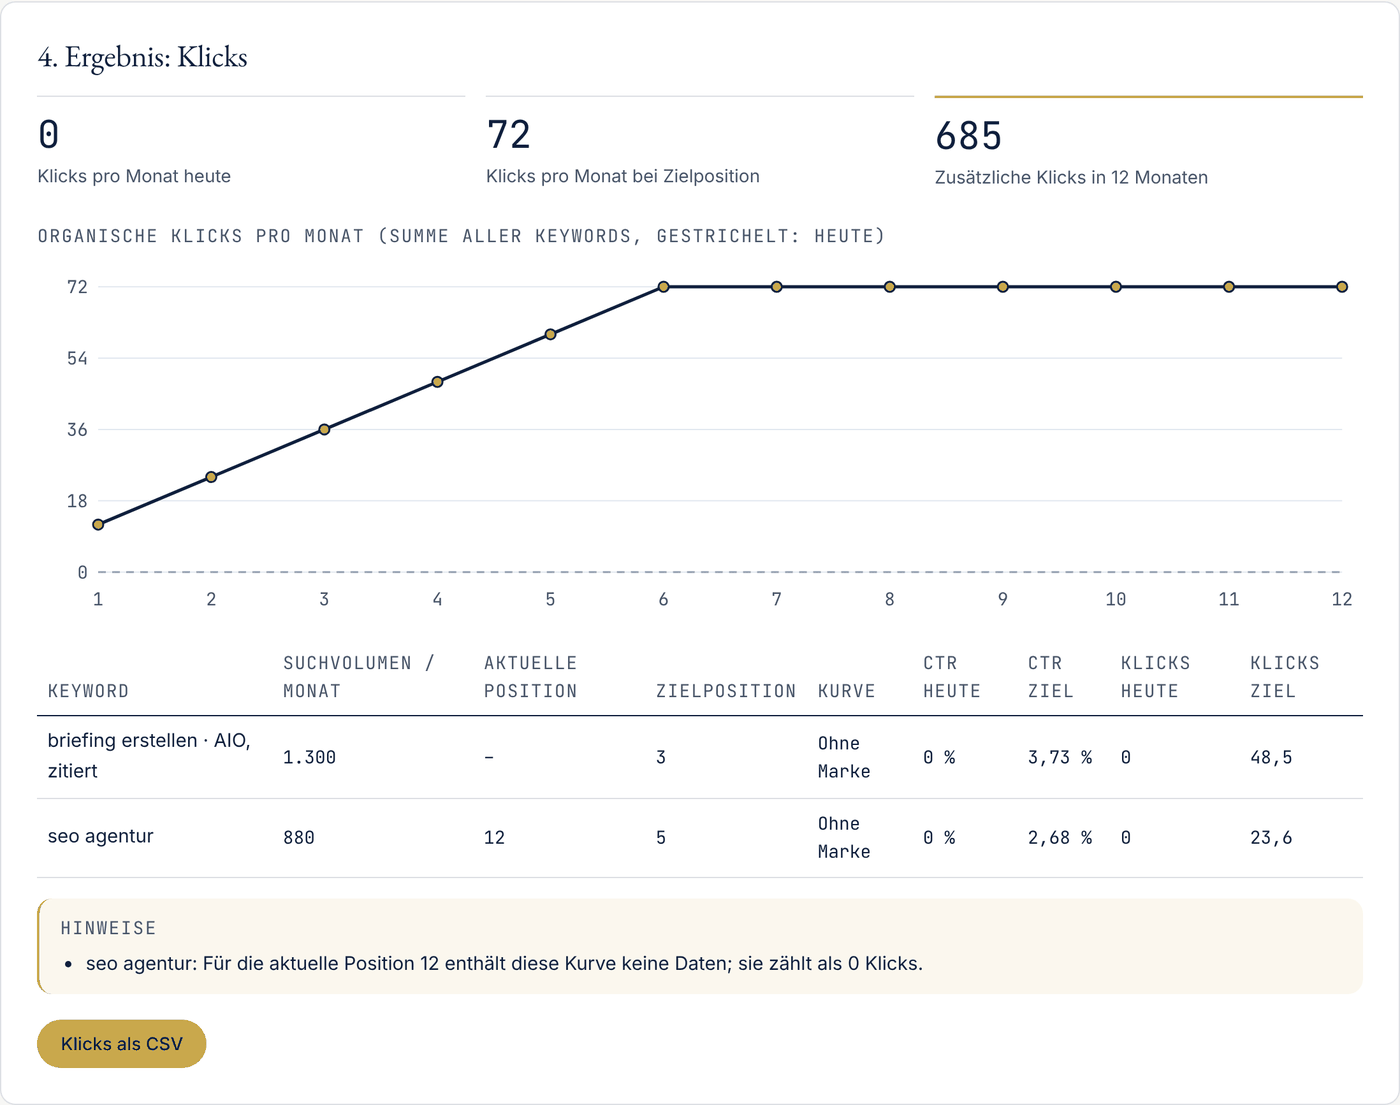
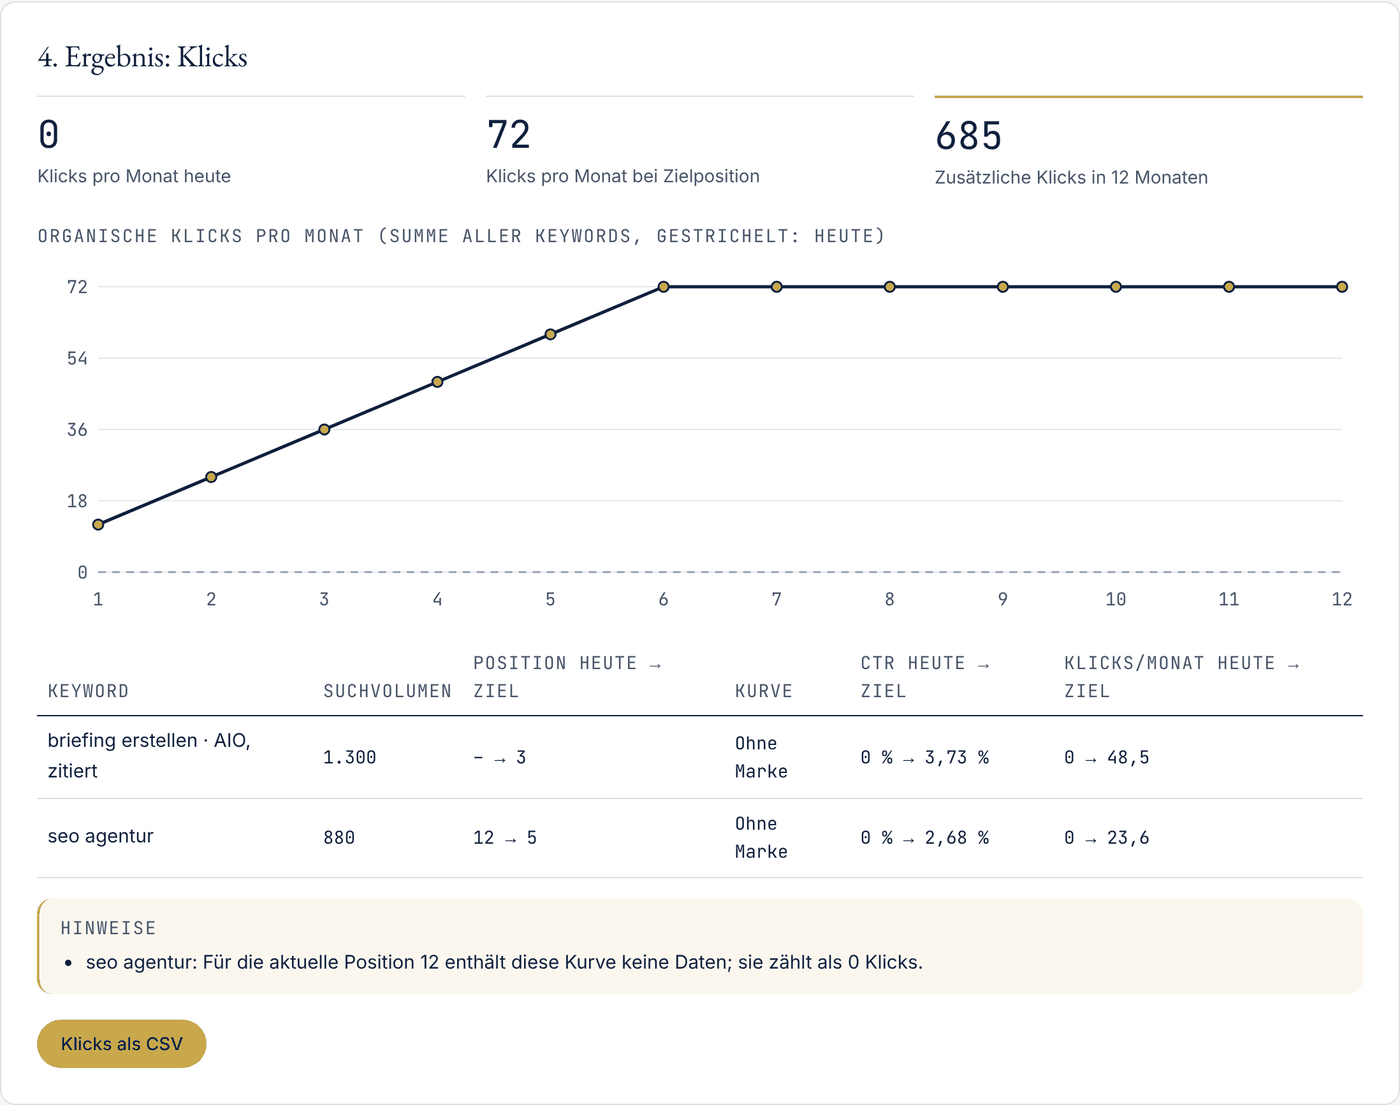
1.3.1: AI Overview not cited ×0.48 (Seer, without the 47 % account; range ×0.28 to ×0.48), compact result table, full-width curve select, stacked keyword rows below 1100 px

diff --git a/dist/ui.js b/dist/ui.js
@@ -46,6 +46,7 @@ function strings(lang, currency) {
             result: '4. Ergebnis: Klicks',
             today: 'Klicks pro Monat heute', target: 'Klicks pro Monat bei Zielposition', extra: (n) => `Zusätzliche Klicks in ${n} Monaten`,
             chartClicks: 'Organische Klicks pro Monat (Summe aller Keywords, gestrichelt: heute)', month: 'Monat',
+            colVolumeShort: 'Suchvolumen', colPos: 'Position heute → Ziel', colCtr: 'CTR heute → Ziel', colClicks: 'Klicks/Monat heute → Ziel',
             colCurve: 'Kurve', colCtrNow: 'CTR heute', colCtrTarget: 'CTR Ziel', colClicksNow: 'Klicks heute', colClicksTarget: 'Klicks Ziel',
             exportCsv: 'Klicks als CSV',
             funnelResult: '5. Ergebnis: Business-Funnel',
@@ -107,6 +108,7 @@ function strings(lang, currency) {
         result: '4. Result: clicks',
         today: 'Clicks per month today', target: 'Clicks per month at target position', extra: (n) => `Additional clicks over ${n} months`,
         chartClicks: 'Organic clicks per month (all keywords, dashed: today)', month: 'Month',
+        colVolumeShort: 'Search volume', colPos: 'Position today → target', colCtr: 'CTR today → target', colClicks: 'Clicks/month today → target',
         colCurve: 'Curve', colCtrNow: 'CTR today', colCtrTarget: 'CTR target', colClicksNow: 'Clicks today', colClicksTarget: 'Clicks target',
         exportCsv: 'Clicks as CSV',
         funnelResult: '5. Result: business funnel',
@@ -305,7 +307,9 @@ export function mount(root, options = {}) {
     const ramp = numInput('6', '1', '1', '36');
     const horizon = numInput('12', '1', '1', '36');
     const userFactor = numInput('100', '0', 'any', '500');
-    grid.append(field(t.curve, curveSel), field(t.ramp, ramp), field(t.horizon, horizon), field(t.userFactor, userFactor, t.userFactorHelp));
+    const curveField = field(t.curve, curveSel);
+    curveField.classList.add('fc-field--wide');
+    grid.append(curveField, field(t.ramp, ramp), field(t.horizon, horizon), field(t.userFactor, userFactor, t.userFactorHelp));
     setup.appendChild(grid);
     const presetNote = el('p', 'fc-note');
     setup.appendChild(presetNote);
@@ -505,10 +509,10 @@ export function mount(root, options = {}) {
         const preset = currentPreset();
         const curveName = (id) => { const c = preset.curves.find((x) => x.id === id); return c ? (c.shortLabel || c.label) : id; };
         resTableHost.textContent = '';
-        resTableHost.appendChild(table([t.colKeyword, t.colVolume, t.colCurrent, t.colTarget, ...(preset.curves.length > 1 ? [t.colCurve] : []), t.colCtrNow, t.colCtrTarget, t.colClicksNow, t.colClicksTarget], result.keywords.map((k) => [
-            k.keyword + (k.aio ? ` · ${k.aioCitation === 'cited' ? t.aioCitedTag : k.aioCitation === 'not-cited' ? t.aioNotCitedTag : 'AIO'}` : ''), t.nf0.format(k.volume), k.currentPosition === null ? '–' : t.nf.format(k.currentPosition), t.nf.format(k.targetPosition),
+        resTableHost.appendChild(table([t.colKeyword, t.colVolumeShort, t.colPos, ...(preset.curves.length > 1 ? [t.colCurve] : []), t.colCtr, t.colClicks], result.keywords.map((k) => [
+            k.keyword + (k.aio ? ` · ${k.aioCitation === 'cited' ? t.aioCitedTag : k.aioCitation === 'not-cited' ? t.aioNotCitedTag : 'AIO'}` : ''), t.nf0.format(k.volume), `${k.currentPosition === null ? '–' : t.nf.format(k.currentPosition)} → ${t.nf.format(k.targetPosition)}`,
             ...(preset.curves.length > 1 ? [curveName(k.curveId)] : []),
-            t.pct(k.currentCtr), t.pct(k.targetCtr), t.nf.format(k.currentClicks), t.nf.format(k.targetClicks),
+            `${t.pct(k.currentCtr)} → ${t.pct(k.targetCtr)}`, `${t.nf.format(k.currentClicks)} → ${t.nf.format(k.targetClicks)}`,
         ])));
         warnBox.textContent = '';
         const warns = result.keywords.flatMap((k) => k.warnings.map((w) => `${k.keyword}: ${w.type === 'beyond-data' ? t.warnBeyond(w.which, Math.round(w.position)) : w.type === 'no-aio-reduction' ? t.warnNoAio(w.position) : w.message}`));

diff --git a/src/ui.ts b/src/ui.ts
@@ -46,6 +46,7 @@ function strings(lang: Lang, currency: string) {
     result: '4. Ergebnis: Klicks',
     today: 'Klicks pro Monat heute', target: 'Klicks pro Monat bei Zielposition', extra: (n: number) => `Zusätzliche Klicks in ${n} Monaten`,
     chartClicks: 'Organische Klicks pro Monat (Summe aller Keywords, gestrichelt: heute)', month: 'Monat',
+    colVolumeShort: 'Suchvolumen', colPos: 'Position heute → Ziel', colCtr: 'CTR heute → Ziel', colClicks: 'Klicks/Monat heute → Ziel',
     colCurve: 'Kurve', colCtrNow: 'CTR heute', colCtrTarget: 'CTR Ziel', colClicksNow: 'Klicks heute', colClicksTarget: 'Klicks Ziel',
     exportCsv: 'Klicks als CSV',
     funnelResult: '5. Ergebnis: Business-Funnel',
@@ -108,6 +109,7 @@ function strings(lang: Lang, currency: string) {
     result: '4. Result: clicks',
     today: 'Clicks per month today', target: 'Clicks per month at target position', extra: (n: number) => `Additional clicks over ${n} months`,
     chartClicks: 'Organic clicks per month (all keywords, dashed: today)', month: 'Month',
+    colVolumeShort: 'Search volume', colPos: 'Position today → target', colCtr: 'CTR today → target', colClicks: 'Clicks/month today → target',
     colCurve: 'Curve', colCtrNow: 'CTR today', colCtrTarget: 'CTR target', colClicksNow: 'Clicks today', colClicksTarget: 'Clicks target',
     exportCsv: 'Clicks as CSV',
     funnelResult: '5. Result: business funnel',
@@ -323,7 +325,9 @@ export function mount(root: HTMLElement, options: MountOptions = {}): Mounted {
   const ramp = numInput('6', '1', '1', '36');
   const horizon = numInput('12', '1', '1', '36');
   const userFactor = numInput('100', '0', 'any', '500');
-  grid.append(field(t.curve, curveSel), field(t.ramp, ramp), field(t.horizon, horizon), field(t.userFactor, userFactor, t.userFactorHelp));
+  const curveField = field(t.curve, curveSel);
+  curveField.classList.add('fc-field--wide');
+  grid.append(curveField, field(t.ramp, ramp), field(t.horizon, horizon), field(t.userFactor, userFactor, t.userFactorHelp));
   setup.appendChild(grid);
   const presetNote = el('p', 'fc-note');
   setup.appendChild(presetNote);
@@ -500,11 +504,11 @@ export function mount(root: HTMLElement, options: MountOptions = {}): Mounted {
     const curveName = (id: string) => { const c = preset.curves.find((x) => x.id === id); return c ? (c.shortLabel || c.label) : id; };
     resTableHost.textContent = '';
     resTableHost.appendChild(table(
-      [t.colKeyword, t.colVolume, t.colCurrent, t.colTarget, ...(preset.curves.length > 1 ? [t.colCurve] : []), t.colCtrNow, t.colCtrTarget, t.colClicksNow, t.colClicksTarget],
+      [t.colKeyword, t.colVolumeShort, t.colPos, ...(preset.curves.length > 1 ? [t.colCurve] : []), t.colCtr, t.colClicks],
       result.keywords.map((k) => [
-        k.keyword + (k.aio ? ` · ${k.aioCitation === 'cited' ? t.aioCitedTag : k.aioCitation === 'not-cited' ? t.aioNotCitedTag : 'AIO'}` : ''), t.nf0.format(k.volume), k.currentPosition === null ? '–' : t.nf.format(k.currentPosition), t.nf.format(k.targetPosition),
+        k.keyword + (k.aio ? ` · ${k.aioCitation === 'cited' ? t.aioCitedTag : k.aioCitation === 'not-cited' ? t.aioNotCitedTag : 'AIO'}` : ''), t.nf0.format(k.volume), `${k.currentPosition === null ? '–' : t.nf.format(k.currentPosition)} → ${t.nf.format(k.targetPosition)}`,
         ...(preset.curves.length > 1 ? [curveName(k.curveId)] : []),
-        t.pct(k.currentCtr), t.pct(k.targetCtr), t.nf.format(k.currentClicks), t.nf.format(k.targetClicks),
+        `${t.pct(k.currentCtr)} → ${t.pct(k.targetCtr)}`, `${t.nf.format(k.currentClicks)} → ${t.nf.format(k.targetClicks)}`,
       ]),
     ));
     warnBox.textContent = '';

diff --git a/package/seo-forecast.js b/package/seo-forecast.js
@@ -1,4 +1,4 @@
-/*! seo-forecast 1.3.0 · MIT License · https://github.com/litzki-systems/seo-forecast */
+/*! seo-forecast 1.3.1 · MIT License · https://github.com/litzki-systems/seo-forecast */
 
 // src/forecast.ts
 var round2 = (n) => Math.round(n * 100) / 100;
@@ -563,6 +563,10 @@ function strings(lang, currency) {
     extra: (n) => `Zus\xE4tzliche Klicks in ${n} Monaten`,
     chartClicks: "Organische Klicks pro Monat (Summe aller Keywords, gestrichelt: heute)",
     month: "Monat",
+    colVolumeShort: "Suchvolumen",
+    colPos: "Position heute \u2192 Ziel",
+    colCtr: "CTR heute \u2192 Ziel",
+    colClicks: "Klicks/Monat heute \u2192 Ziel",
     colCurve: "Kurve",
     colCtrNow: "CTR heute",
     colCtrTarget: "CTR Ziel",
@@ -681,6 +685,10 @@ function strings(lang, currency) {
     extra: (n) => `Additional clicks over ${n} months`,
     chartClicks: "Organic clicks per month (all keywords, dashed: today)",
     month: "Month",
+    colVolumeShort: "Search volume",
+    colPos: "Position today \u2192 target",
+    colCtr: "CTR today \u2192 target",
+    colClicks: "Clicks/month today \u2192 target",
     colCurve: "Curve",
     colCtrNow: "CTR today",
     colCtrTarget: "CTR target",
@@ -898,7 +906,9 @@ function mount(root, options = {}) {
   const ramp = numInput("6", "1", "1", "36");
   const horizon = numInput("12", "1", "1", "36");
   const userFactor = numInput("100", "0", "any", "500");
-  grid.append(field(t.curve, curveSel), field(t.ramp, ramp), field(t.horizon, horizon), field(t.userFactor, userFactor, t.userFactorHelp));
+  const curveField = field(t.curve, curveSel);
+  curveField.classList.add("fc-field--wide");
+  grid.append(curveField, field(t.ramp, ramp), field(t.horizon, horizon), field(t.userFactor, userFactor, t.userFactorHelp));
   setup.appendChild(grid);
   const presetNote = el("p", "fc-note");
   setup.appendChild(presetNote);
@@ -1124,17 +1134,14 @@ function mount(root, options = {}) {
     };
     resTableHost.textContent = "";
     resTableHost.appendChild(table(
-      [t.colKeyword, t.colVolume, t.colCurrent, t.colTarget, ...preset.curves.length > 1 ? [t.colCurve] : [], t.colCtrNow, t.colCtrTarget, t.colClicksNow, t.colClicksTarget],
+      [t.colKeyword, t.colVolumeShort, t.colPos, ...preset.curves.length > 1 ? [t.colCurve] : [], t.colCtr, t.colClicks],
       result.keywords.map((k) => [
         k.keyword + (k.aio ? ` \xB7 ${k.aioCitation === "cited" ? t.aioCitedTag : k.aioCitation === "not-cited" ? t.aioNotCitedTag : "AIO"}` : ""),
         t.nf0.format(k.volume),
-        k.currentPosition === null ? "\u2013" : t.nf.format(k.currentPosition),
-        t.nf.format(k.targetPosition),
+        `${k.currentPosition === null ? "\u2013" : t.nf.format(k.currentPosition)} \u2192 ${t.nf.format(k.targetPosition)}`,
         ...preset.curves.length > 1 ? [curveName(k.curveId)] : [],
-        t.pct(k.currentCtr),
-        t.pct(k.targetCtr),
-        t.nf.format(k.currentClicks),
-        t.nf.format(k.targetClicks)
+        `${t.pct(k.currentCtr)} \u2192 ${t.pct(k.targetCtr)}`,
+        `${t.nf.format(k.currentClicks)} \u2192 ${t.nf.format(k.targetClicks)}`
       ])
     ));
     warnBox.textContent = "";

diff --git a/css/seo-forecast.css b/css/seo-forecast.css
@@ -102,8 +102,8 @@
 .fc-caveats { margin-top: 1rem; color: var(--color-gray-600); }
 .fc-caveats li + li { margin-top: 0.35rem; }
 
-/* ---------- phones: keyword rows as stacked cards ---------- */
-@media (max-width: 640px) {
+/* ---------- narrow screens: keyword rows as stacked cards ---------- */
+@media (max-width: 1100px) {
   .fc-table--input thead { display: none; }
   .fc-table--input, .fc-table--input tbody { display: block; }
   .fc-table--input tr { display: grid; grid-template-columns: 1fr 1fr; gap: 0.6rem 0.75rem; padding: 0.9rem 0; border-bottom: 1px solid var(--line); }
@@ -123,3 +123,6 @@
 @media (min-width: 900px) {
   .fc-grid .fc-field > .fc-label { min-height: 2.9em; display: flex; align-items: flex-end; }
 }
+
+/* the curve select carries long, sourced labels: give it the full row */
+.fc-field--wide { grid-column: 1 / -1; }

diff --git a/package/seo-forecast.css b/package/seo-forecast.css
@@ -102,8 +102,8 @@
 .fc-caveats { margin-top: 1rem; color: var(--color-gray-600); }
 .fc-caveats li + li { margin-top: 0.35rem; }
 
-/* ---------- phones: keyword rows as stacked cards ---------- */
-@media (max-width: 640px) {
+/* ---------- narrow screens: keyword rows as stacked cards ---------- */
+@media (max-width: 1100px) {
   .fc-table--input thead { display: none; }
   .fc-table--input, .fc-table--input tbody { display: block; }
   .fc-table--input tr { display: grid; grid-template-columns: 1fr 1fr; gap: 0.6rem 0.75rem; padding: 0.9rem 0; border-bottom: 1px solid var(--line); }
@@ -123,3 +123,6 @@
 @media (min-width: 900px) {
   .fc-grid .fc-field > .fc-label { min-height: 2.9em; display: flex; align-items: flex-end; }
 }
+
+/* the curve select carries long, sourced labels: give it the full row */
+.fc-field--wide { grid-column: 1 / -1; }

diff --git a/src/data.ts b/src/data.ts
@@ -44,6 +44,8 @@ export interface CurveFile {
     source_ref: { name: string; url: string; year: number };
     cited: number;
     not_cited: number;
+    /** Lower and upper value the source supports for not cited. */
+    not_cited_range?: [number, number];
     calculation: string;
     label: Record<Lang, string>;
   };

diff --git a/dist/data.d.ts b/dist/data.d.ts
@@ -68,6 +68,8 @@ export interface CurveFile {
         };
         cited: number;
         not_cited: number;
+        /** Lower and upper value the source supports for not cited. */
+        not_cited_range?: [number, number];
         calculation: string;
         label: Record<Lang, string>;
     };

diff --git a/README.md b/README.md
@@ -29,7 +29,7 @@ A forecast is never a measurement. What this tool does instead is keep every inp
 - **Search volume** comes from you (keyword tool, Search Console). The calculator never estimates it.
 - **CTR curves** are copied as published, with source, market, period and method: [Advanced Web Ranking](https://www.advancedwebranking.com/seo/organic-ctr), Google US, July 2026. Nothing is smoothed or extrapolated. Positions without published data count as 0 clicks and are reported, not guessed.
 - **AI Overview impact** lowers CTR, as measured by [Ahrefs](https://ahrefs.com/blog/ai-overviews-reduce-clicks-update/) (300,000 keywords, Search Console data, December 2025: position 1 minus 58 %), or uses AWR's separate CTR column for SERPs with an AI Overview.
-- **Cited or not cited in the AI Overview** changes a lot, so you can set it per keyword: [Seer Interactive](https://www.seerinteractive.com/insights/aio-impact-on-google-ctr-2026-update) (53 brands, 5.47 million queries, informational, 2025) measured CTR × 0.62 when the brand is cited and × 0.28 when it is not, relative to no AI Overview.
+- **Cited or not cited in the AI Overview** changes a lot, so you can set it per keyword: [Seer Interactive](https://www.seerinteractive.com/insights/aio-impact-on-google-ctr-2026-update) (53 brands, 5.47 million queries, informational, 2025) measured CTR × 0.62 when the brand is cited and × 0.48 when it is not (× 0.28 including one account that makes up 47 % of that segment, which Seer itself flags), relative to no AI Overview.
 - **Industry starting values for the lead rate** come from [Ruler Analytics](https://www.ruleranalytics.com/blog/insight/conversion-rate-by-industry/) (organic search, 13 industries, 2026). They are a starting point; replace them with your own GA4 figure.
 - **Your own CTR factor** (default 100 %) lets you apply assumptions for which no published data exists, e.g. snippets, ads or mobile. The result labels it as your assumption.
 - **Your own curve** beats every preset: load your Search Console query export, and the tool computes CTR per position from your clicks and impressions.
@@ -190,7 +190,7 @@ Eine Prognose ist nie eine Messung. Dieses Werkzeug hält deshalb jede Eingabe n
 - **CTR-Kurven** sind unverändert übernommen, mit Quelle, Markt, Zeitraum und Methode: [Advanced Web Ranking](https://www.advancedwebranking.com/seo/organic-ctr), Google USA, Juli 2026. Nichts ist geglättet oder hochgerechnet. Positionen ohne veröffentlichte Daten zählen als 0 Klicks und werden gemeldet, nicht geraten.
 - **AI Overviews** senken die CTR, gemessen von [Ahrefs](https://ahrefs.com/blog/ai-overviews-reduce-clicks-update/) (300.000 Keywords, Search-Console-Daten, Dezember 2025: Position 1 minus 58 %), oder es gilt die eigene AWR-Spalte für Suchergebnisse mit AI Overview.
 - **Ihre eigene Kurve** schlägt jede Voreinstellung: Laden Sie Ihren Search-Console-Export der Suchanfragen, und das Werkzeug berechnet die CTR je Position aus Ihren Klicks und Impressionen.
-- **In der AI Overview zitiert oder nicht** lässt sich je Keyword angeben: [Seer Interactive](https://www.seerinteractive.com/insights/aio-impact-on-google-ctr-2026-update) (53 Marken, 5,47 Mio. Suchanfragen, informativ, 2025) misst CTR × 0,62 bei Zitierung und × 0,28 ohne, jeweils gegenüber keiner AI Overview.
+- **In der AI Overview zitiert oder nicht** lässt sich je Keyword angeben: [Seer Interactive](https://www.seerinteractive.com/insights/aio-impact-on-google-ctr-2026-update) (53 Marken, 5,47 Mio. Suchanfragen, informativ, 2025) misst CTR × 0,62 bei Zitierung und × 0,48 ohne (× 0,28 einschließlich eines Kontos mit 47 % der Impressionen dieses Segments, das Seer selbst als Verzerrung nennt), jeweils gegenüber keiner AI Overview.
 - **Branchen-Startwerte für die Lead-Rate** stammen von [Ruler Analytics](https://www.ruleranalytics.com/blog/insight/conversion-rate-by-industry/) (organische Suche, 13 Branchen, 2026). Sie sind ein Startpunkt; ersetzen Sie sie durch Ihre eigene GA4-Zahl.
 - **Eigener CTR-Faktor** (Standard 100 %) für Annahmen, zu denen es keine veröffentlichten Daten gibt, etwa Snippets, Anzeigen oder Mobil. Das Ergebnis weist ihn als Ihre Annahme aus.
 - **Funnel-Zahlen sind Ihre.** Lead-Rate, Abschlussrate, Kundenwert, Marge und Investition kommen aus Ihrem GA4, CRM oder Ihrer Buchhaltung. Es gibt keine Branchen-Standardwerte; ohne Ihre Raten rechnet das Werkzeug nur Klicks und erfindet keinen Umsatz.
